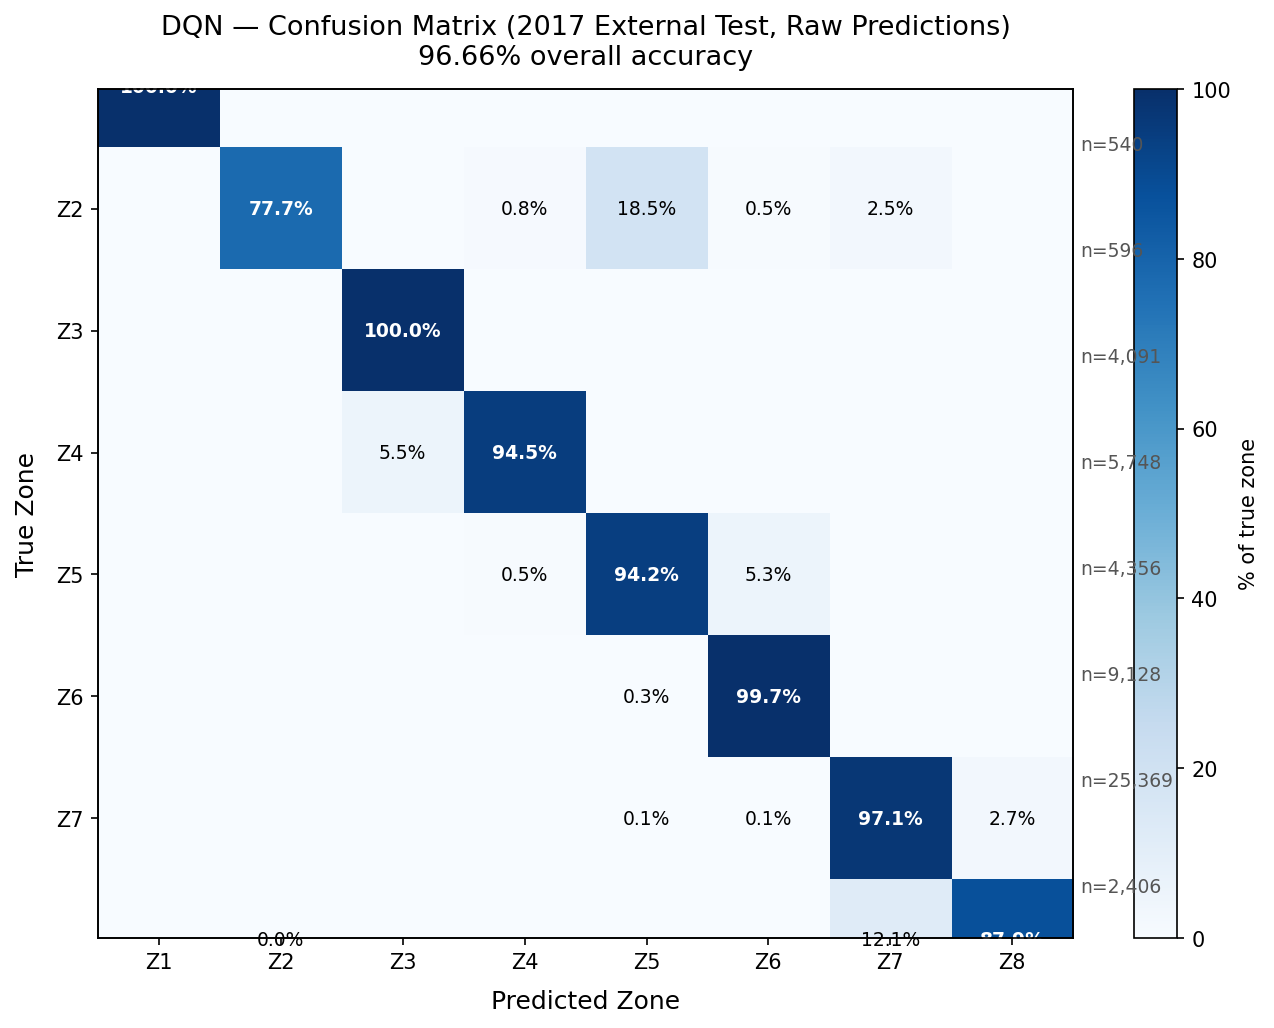
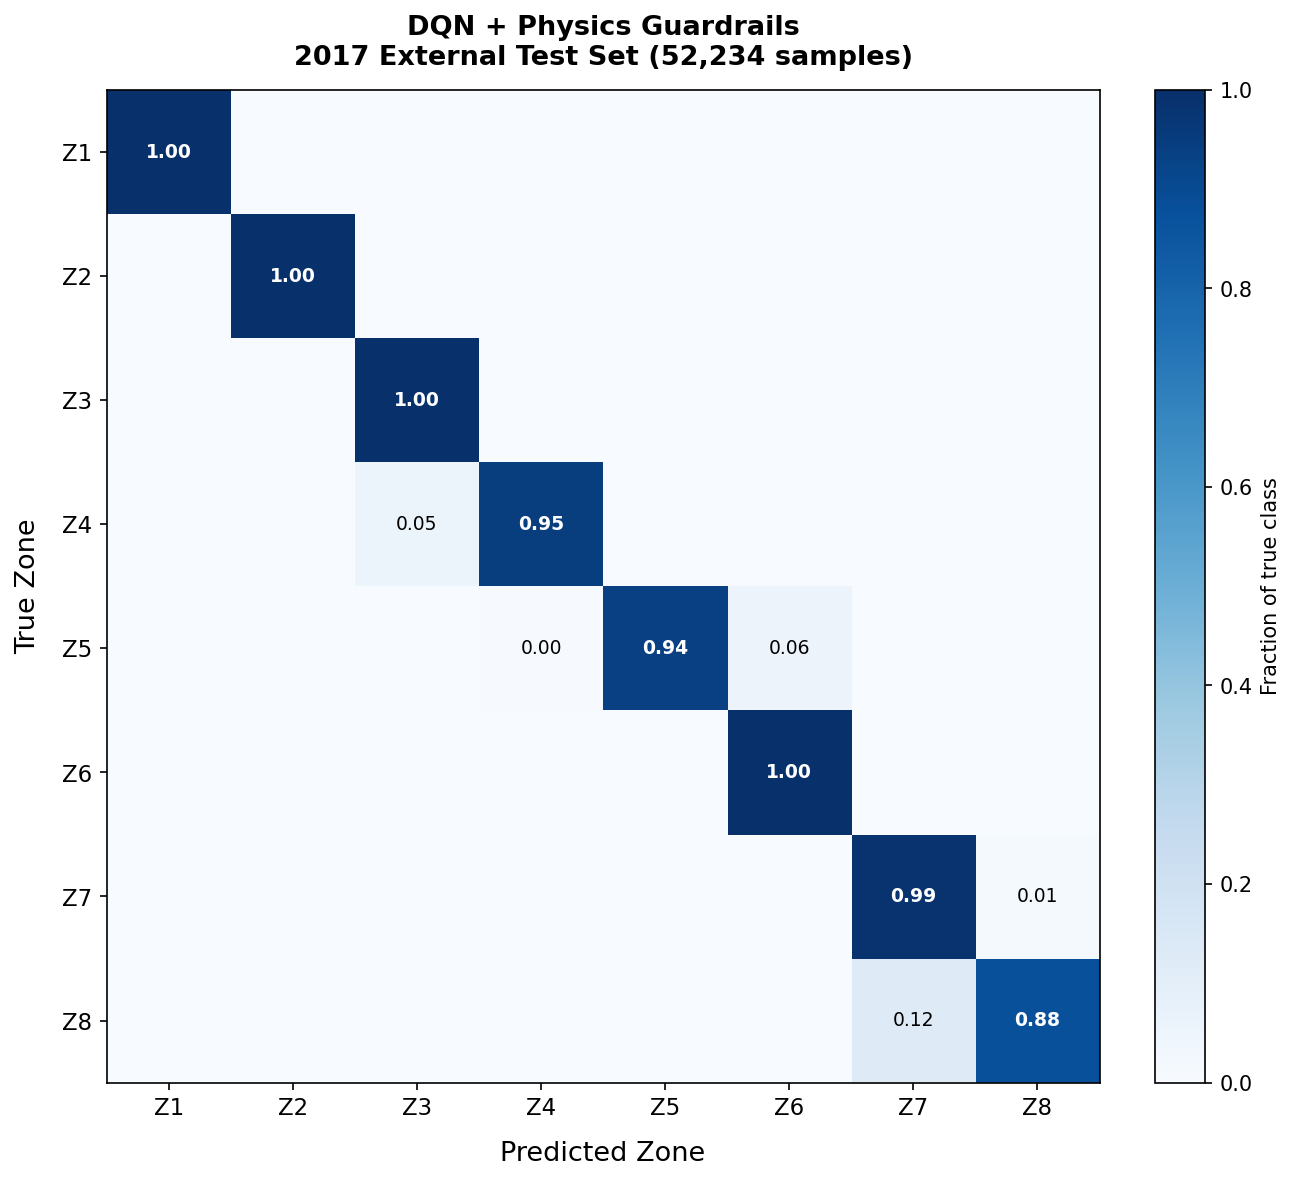
fgix

diff --git a/chapter4.tex b/chapter4.tex
@@ -319,10 +319,11 @@ Zone~2 boundary imperfectly and relies on the guardrail to handle the clearest c
 \begin{figure}[h]
 \centering
 \includegraphics[width=0.75\textwidth]{figs/confusion_matrix_DQN.png}
-\caption{Confusion matrix for DQN with physics guardrails on the 2017 external test set
-(52,234 samples). Zone~8 (full load) shows the lowest precision (0.87) and recall
-(0.88). Zone~5 (free wheeling) also has reduced recall (0.94). All other zones are
-classified with precision and recall above 0.97.}
+\caption{Normalised confusion matrix for DQN with physics guardrails on the 2017
+external test set (52,234 samples). Each row shows the fraction of true-zone
+observations predicted as each zone. Zone~8 (full load) has the lowest recall (0.88);
+12\% of Zone~8 readings are predicted as Zone~7. Zone~5 (free wheeling) has recall
+0.94; 6\% go to Zone~6. All other zones have recall above 0.94.}
 \label{fig:ch4:cm_dqn}
 \end{figure}
 